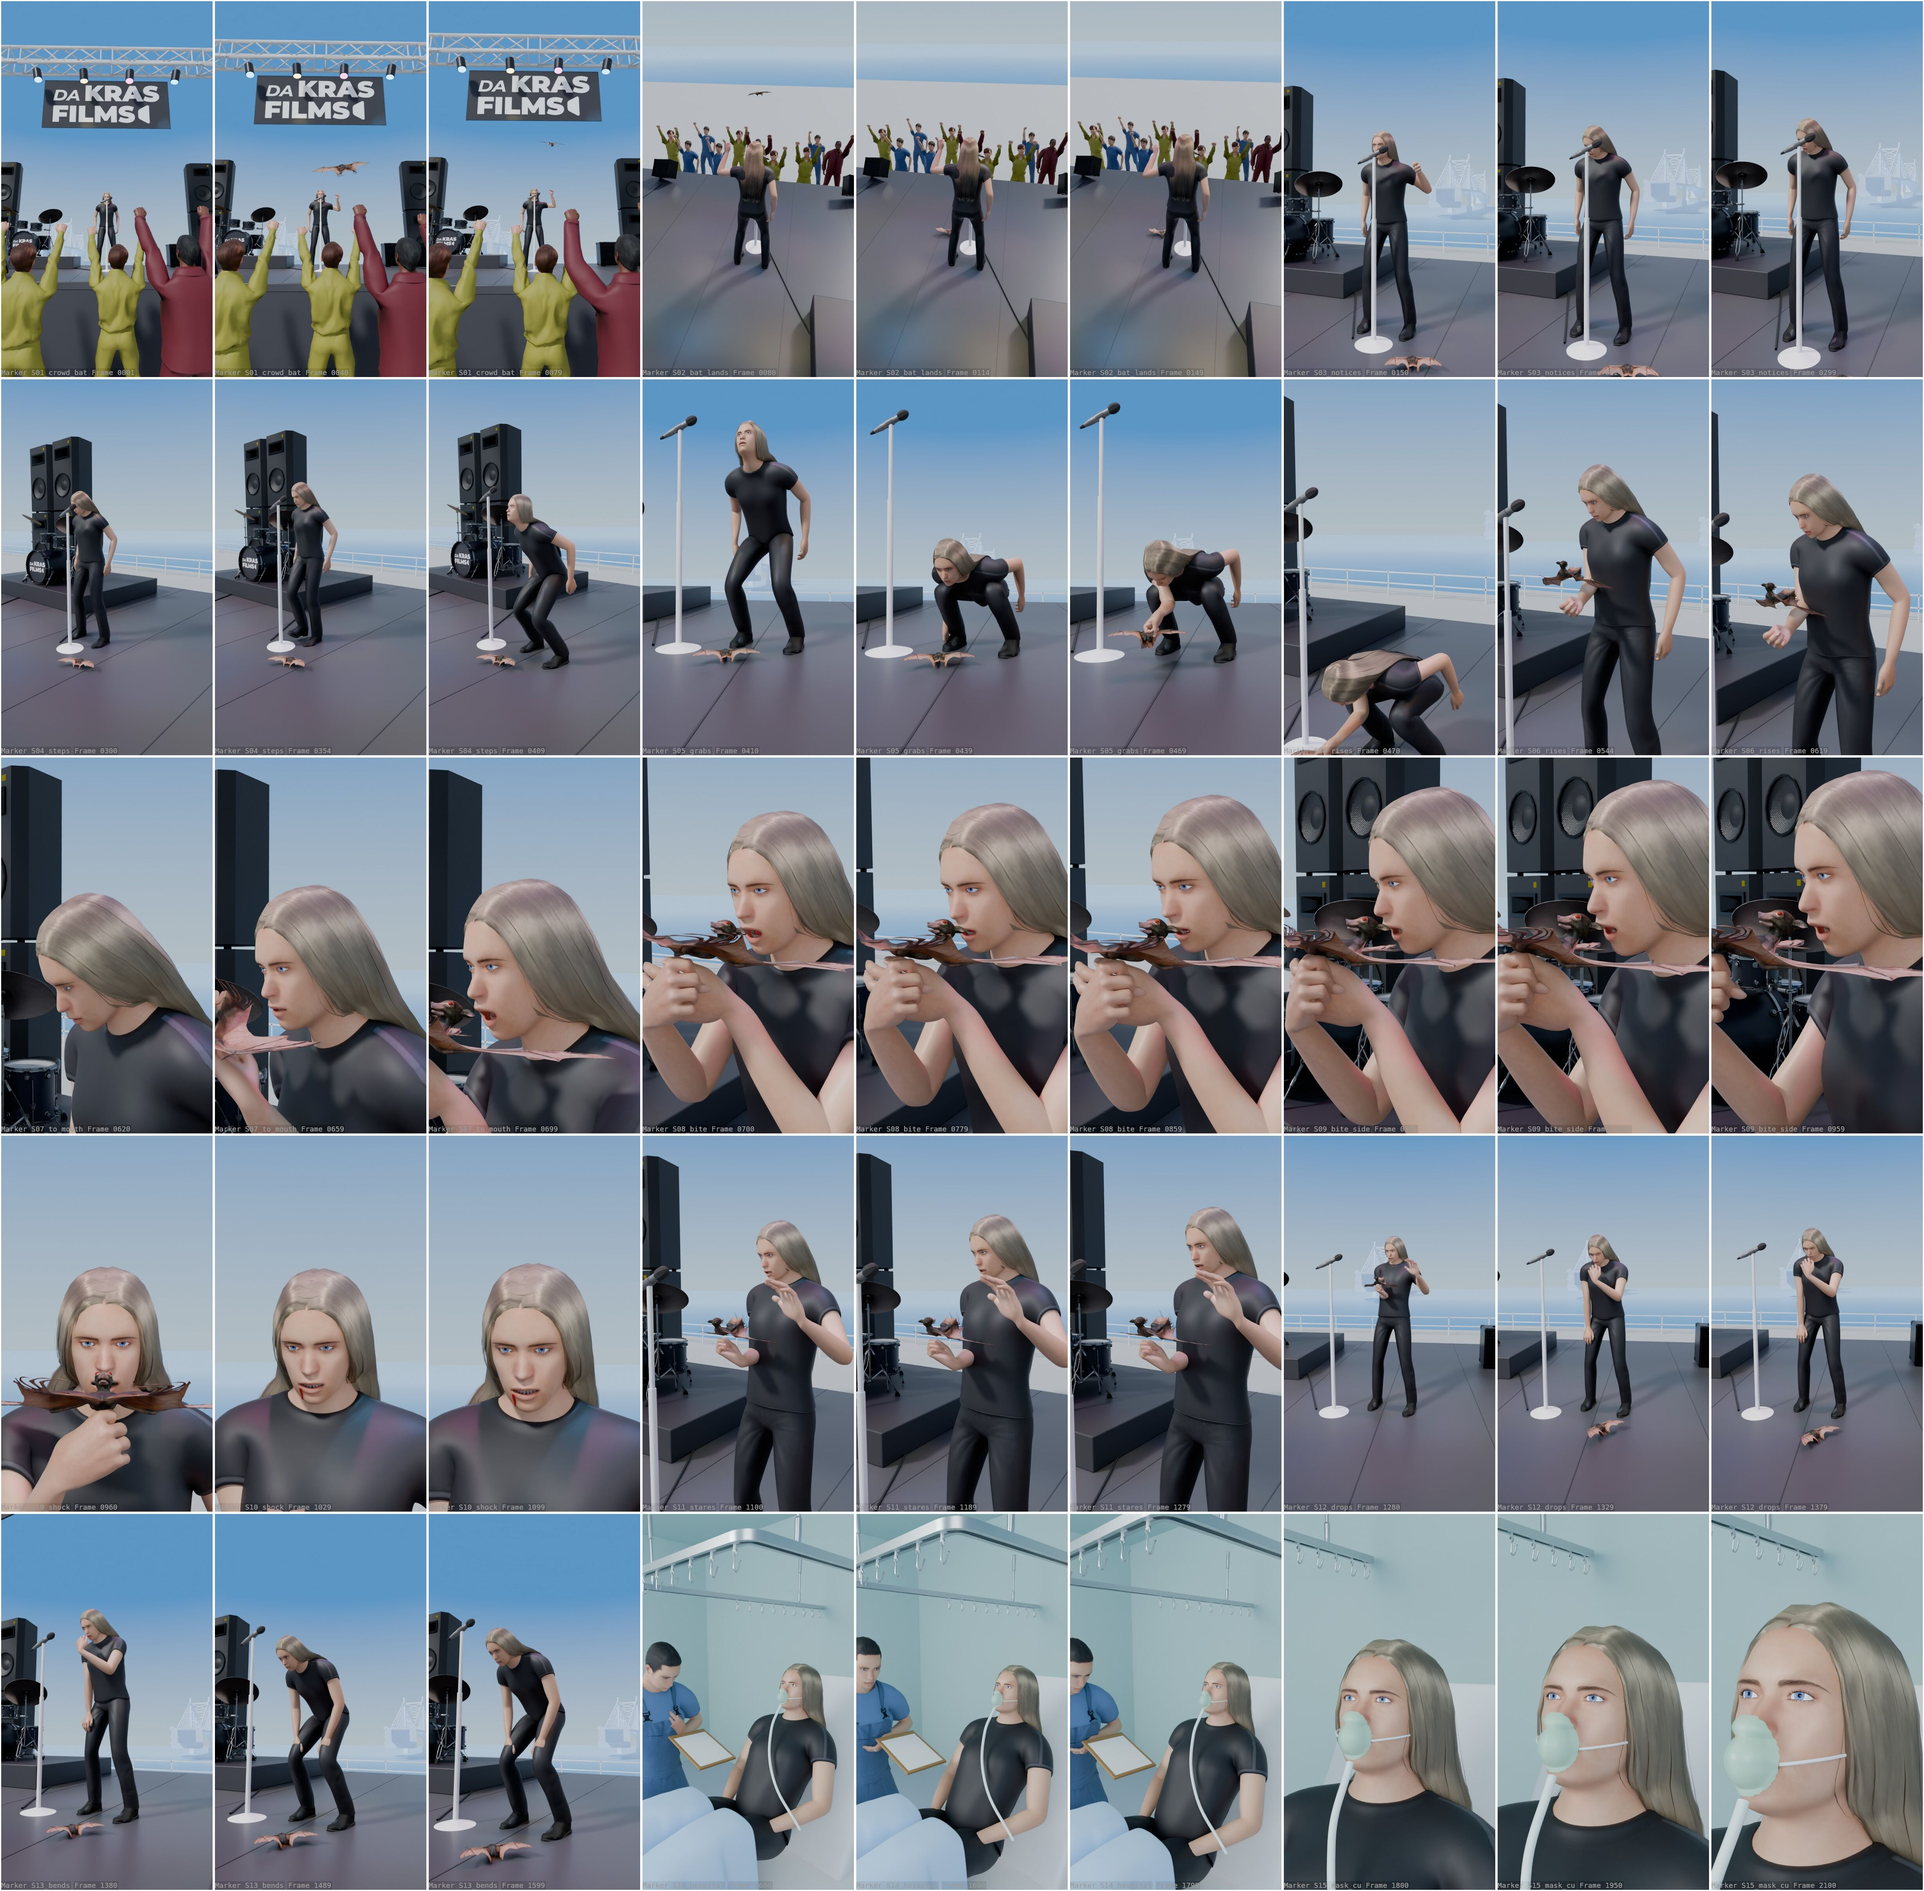
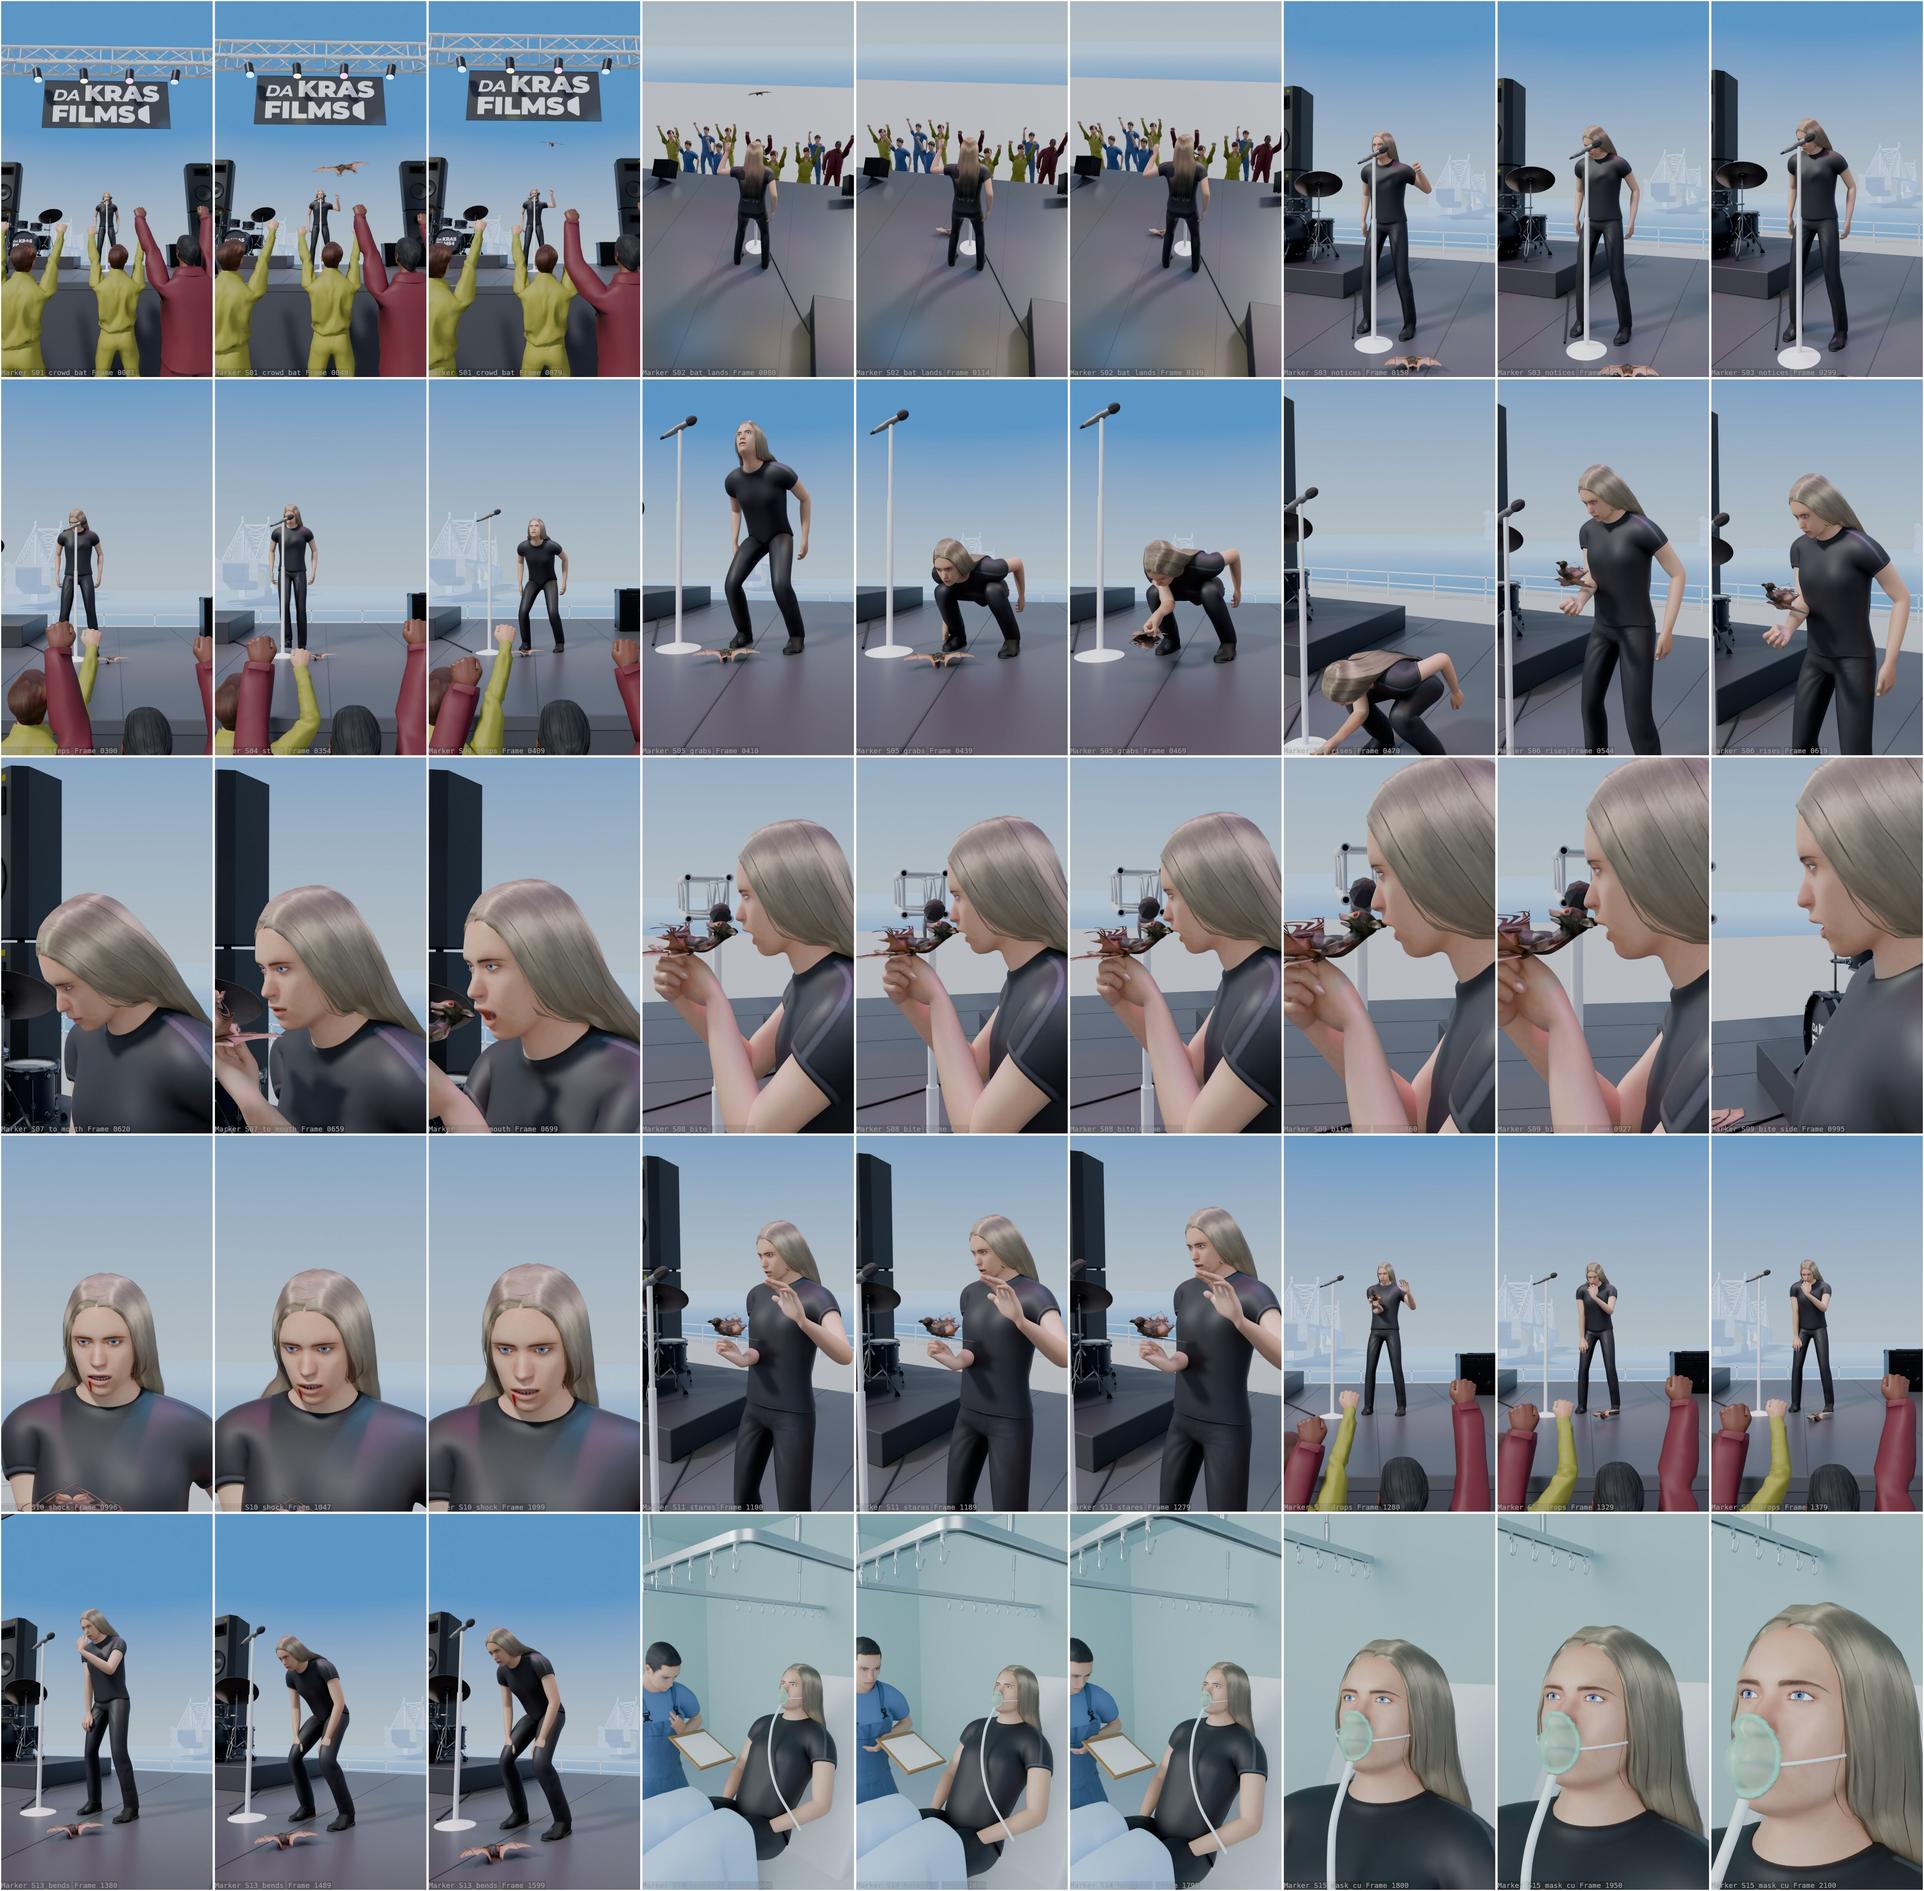
B08 BatBite P1: profile-only bite, folded wings while held, mask rim + clearer plastic, crowd foreground in S04/S12
Claude-Session: https://claude.ai/code/session_01XfwPSmLbHQF2WV66wM8mt5

diff --git a/blender/BatBite_v001/scripts/05_anim.py b/blender/BatBite_v001/scripts/05_anim.py
@@ -187,7 +187,7 @@ def clone(src, name, rgb):
 PAL = [(0.08, 0.12, 0.35), (0.05, 0.45, 0.45), (0.40, 0.12, 0.55), (0.06, 0.06, 0.07), (0.92, 0.92, 0.95), (0.95, 0.45, 0.05),
        (0.35, 0.40, 0.10), (0.55, 0.06, 0.10), (0.15, 0.30, 0.75), (0.85, 0.80, 0.10)]
 CROWD_POS = [(-2.35, -3.55, 6), (-1.55, -4.25, -4), (2.45, -3.70, -8), (3.25, -4.30, 4), (-3.30, -4.05, 10),
-             (-1.05, -4.85, 3), (1.25, -4.75, -3), (-2.70, -4.95, 7), (2.40, -5.05, -6), (0.05, -3.35, 0)]
+             (-1.05, -4.85, 3), (1.65, -4.95, -3), (-2.70, -4.95, 7), (2.40, -5.05, -6), (0.05, -3.35, 0)]
 SRC = ["Fan1", "Fan3", "Fan4"]
 ARMS = {}
 for k, (x, y, yaw) in enumerate(CROWD_POS):
@@ -253,7 +253,8 @@ for f in range(T0, T1 + 1, 4):    # floppy rubber-like flutter in the air
 bat_key(T1 + 4, Mloc(LAND + V((0.0, 0.0, 0.05)), BAT_LIE)); bat_key(T1 + 9, Mloc(LAND + V((0.02, 0.01, 0.026)), BAT_LIE))
 wings(T1 + 4, up=-10); wings(T1 + 9, up=-14); wings(T1 + 14, up=-15)
 HOLD_FOLD = float(os.environ.get("BAT_HOLD_FOLD", "-60")); HOLD_UP = float(os.environ.get("BAT_HOLD_UP", "25"))
-wings(446, up=-15); wings(1296, up=-15)
+HW = float(os.environ.get('HOLD_WING', '-75'))
+wings(446, up=-15); wings(472, up=HW); wings(1296, up=HW)   # wings folded along the body while he holds it (clear of his arms and body)
 BR.key_rot("legs", 446, [("X", 0)]); BR.key_rot("legs", 470, [("X", -55)]); BR.key_rot("legs", 675, [("X", -55)]); BR.key_rot("legs", 695, [("X", 0)]); BR.key_rot("legs", 960, [("X", 0)]); BR.key_rot("legs", 985, [("X", -55)]); BR.key_rot("legs", 1296, [("X", -55)])   # legs hang free at the bite (curled legs read as a blob in the close-ups); BR.key_rot("legs", 1320, [("X", 0)])   # wings stay relaxed/drooping while held (a fold test swung them across his face)
 BAT_REST = Mloc(LAND + V((0.02, 0.01, 0.026)), BAT_LIE)
 bat_key(300, BAT_REST)
@@ -593,12 +594,26 @@ def oxygen_mask():
             if all(k_ in G for k_ in q): bm.faces.new([G[k_] for k_ in q])
     bmesh.ops.recalc_face_normals(bm, faces=bm.faces)
     vmap = G
+    # visible rim: the cup's boundary loop as a soft green rubber bead
+    bnd = [e for e in bm.edges if e.is_boundary]; nxt = {}
+    for e in bnd:
+        a_, b_ = e.verts; nxt.setdefault(a_, []).append(b_); nxt.setdefault(b_, []).append(a_)
+    loop = [bnd[0].verts[0]]; prev = None
+    while True:
+        cands = [v for v in nxt[loop[-1]] if v is not prev]
+        if not cands or cands[0] is loop[0]: break
+        prev = loop[-1]; loop.append(cands[0])
+    rc = bpy.data.curves.new("OxyRim", 'CURVE'); rc.dimensions = '3D'; rc.bevel_depth = 0.0028; rc.bevel_resolution = 2
+    rs = rc.splines.new('POLY'); rs.points.add(len(loop) - 1); rs.use_cyclic_u = True
+    for pt, v in zip(rs.points, loop): pt.co = (v.co.x, v.co.y, v.co.z, 1.0)
+    rim = bpy.data.objects.new("OxyRim", rc); sc.collection.objects.link(rim); rc.materials.append(soft_mat("M_OxyRim", (0.35, 0.75, 0.55), 0.35))
+    print("MASK rim points", len(loop))
     me = bpy.data.meshes.new("OxygenMask"); bm.to_mesh(me)
     o = bpy.data.objects.new("OxygenMask", me); sc.collection.objects.link(o)
     so = o.modifiers.new("Sol", 'SOLIDIFY'); so.thickness = 0.0025; so.offset = 1
     o.modifiers.new("Sub", 'SUBSURF').levels = 1
-    m = soft_mat("M_OxyMask", (0.62, 0.92, 0.74), rough=0.12)
-    Pn = m.node_tree.nodes["Principled BSDF"]; Pn.inputs["Alpha"].default_value = 0.55; Pn.inputs["Coat Weight"].default_value = 0.6   # clear green plastic
+    m = soft_mat("M_OxyMask", (0.55, 0.90, 0.70), rough=0.08)
+    Pn = m.node_tree.nodes["Principled BSDF"]; Pn.inputs["Alpha"].default_value = 0.32; Pn.inputs["Coat Weight"].default_value = 0.8   # clear plastic, light green tint
     me.materials.append(m)
     for p in me.polygons: p.use_smooth = True
     # tube from the bottom of the cup down over the chest to the bed side, and a thin elastic strap toward the ears
@@ -618,7 +633,7 @@ def oxygen_mask():
         s2 = cs.splines.new("POLY"); s2.points.add(len(q) - 1)      # straight segments: no handle overshoot into the cheek
         for pt, p in zip(s2.points, q): pt.co = (p.x, p.y, p.z, 1.0)
     st = bpy.data.objects.new("OxyStrap", cs); sc.collection.objects.link(st); cs.materials.append(soft_mat("M_Strap", (0.9, 0.95, 0.95), 0.5))
-    for ob in (o, t, st):     # Child Of the head bone (a prop, not a rig child), identity at rest
+    for ob in (o, t, st, rim):     # Child Of the head bone (a prop, not a rig child), identity at rest
         c = ob.constraints.new('CHILD_OF'); c.target = D[S]; c.subtarget = "head"
         c.inverse_matrix = (D[S].matrix_world @ RIG[S].rest("head")).inverted()
         for f, hid in ((1, True), (CUT, False)):
@@ -714,7 +729,7 @@ bat_key(CUT - 1, Mloc(DROP, Rz(230) @ Rx(90)))
 # ---- second hand at the bite (director: both hands hold the bat at chin height): left hand grips the bat's left flank at 712,
 # then rides with the bat every frame 690-975 (target clamped to reach); before/after it is the normal relaxed/shock keys
 BW = float(os.environ.get("BITE_WING", "40"))
-wings(676, up=-15); wings(696, up=BW); wings(964, up=BW); wings(984, up=-15)
+
 sc.frame_set(712); bpy.context.view_layer.update()
 Mb712 = BAT.matrix_world.copy(); left_w = Rz(YAW) @ V((1, 0, 0))
 xw = (Mb712.to_3x3() @ V((1, 0, 0))).normalized(); sgn = 1 if xw.dot(left_w) > 0 else -1

diff --git a/blender/BatBite_v001/scripts/06_cams.py b/blender/BatBite_v001/scripts/06_cams.py
@@ -19,15 +19,15 @@ SH = [
  ("S01_crowd_bat",    1,   80, (-0.10, -5.9, 0.30), (-0.08, -5.6, 0.35), (0.0, -0.5, 1.75), (0.0, -0.5, 1.65), 24, False),
  ("S02_bat_lands",   80,  150, (-0.45, 2.4, 2.7), (-0.35, 2.2, 2.6), (0.35, -1.6, 0.3), (0.35, -1.6, 0.25), 24, False),
  ("S03_notices",    150,  300, (1.05, -2.75, 1.15), (0.95, -2.45, 1.20), (0.05, -0.2, 1.25), (0.05, -0.2, 1.20), 30, False),
- ("S04_steps",      300,  410, (2.4, -2.5, 1.35), (2.3, -2.25, 1.25), (0.45, -0.3, 0.95), (0.5, -0.3, 0.85), 28, False),
+ ("S04_steps",      300,  410, (0.45, -5.40, 0.85), (0.45, -5.30, 0.85), (0.35, -0.25, 1.05), (0.50, -0.25, 0.95), 42, False),
  ("S05_grabs",      410,  470, (0.85, -2.30, 0.50), (0.80, -2.15, 0.50), (0.48, -0.40, 0.55), (0.48, -0.40, 0.55), 28, False),
  ("S06_rises",      470,  620, (1.55, -2.25, 1.35), (1.35, -1.85, 1.45), (0.55, -0.35, 1.15), (0.55, -0.35, 1.35), 38, False),
  ("S07_to_mouth",   620,  700, (1.30, -1.20, 1.62), (1.18, -1.05, 1.62), "HEAD", "HEAD", 55, True),
- ("S08_bite",       700,  860, (0.98, -1.12, 1.62), (0.94, -1.06, 1.62), "BITE", "BITE", 45, True),
- ("S09_bite_side",  860,  960, (1.22, -0.98, 1.60), (1.16, -0.92, 1.60), "BITE", "BITE", 55, True),
- ("S10_shock",      960, 1100, (0.32, -1.50, 1.62), (0.36, -1.30, 1.62), "HEAD", "HEAD", 60, True),
+ ("S08_bite",       700,  860, (1.44, -0.60, 1.63), (1.40, -0.58, 1.63), "BITE", "BITE", 45, True),
+ ("S09_bite_side",  860,  996, (1.28, -0.52, 1.62), (1.24, -0.50, 1.62), "BITE", "BITE", 55, True),
+ ("S10_shock",      996, 1100, (0.32, -1.50, 1.62), (0.36, -1.30, 1.62), "HEAD", "HEAD", 60, True),
  ("S11_stares",    1100, 1280, (1.35, -1.65, 1.50), (1.25, -1.50, 1.48), (0.55, -0.40, 1.35), (0.55, -0.40, 1.35), 35, False),
- ("S12_drops",     1280, 1380, (0.95, -3.2, 1.30), (0.90, -3.0, 1.25), (0.55, -0.2, 0.90), (0.55, -0.2, 0.85), 28, False),
+ ("S12_drops",     1280, 1380, (0.45, -5.40, 0.85), (0.45, -5.30, 0.85), (0.65, -0.25, 1.05), (0.65, -0.25, 1.00), 42, False),
  ("S13_bends",     1380, 1600, (1.7, -2.5, 0.60), (1.55, -2.2, 0.62), (0.55, -0.2, 0.95), (0.55, -0.2, 0.92), 28, False),
  ("S14_hospital",  1600, 1800, (HX + 0.95, -0.15, 1.72), (HX + 0.86, -0.02, 1.70), (HX - 0.32, 1.02, 1.38), (HX - 0.30, 1.04, 1.40), 30, False),
  ("S15_mask_cu",   1800, 2100, (HX + 0.42, 0.25, 1.60), (HX + 0.30, 0.55, 1.55), "HEAD", "HEAD", 50, True),

diff --git a/blender/BatBite_v001/PLAN.md b/blender/BatBite_v001/PLAN.md
@@ -17,8 +17,8 @@ VO beat, so Phase 2 can shift and trim blocks to the VO frames without stretchin
 | | | **S05** 410–470 grabs | deep crouch, right hand reaches the bat's lower body and closes (`grip_object` + wrap_grip; the bat is baked to the IK hand every frame from here on). **Edit plan:** use 410–444 (the reach) and cut to S06 at 506, so the finger-contact frames 445–505 are not shown. | low front-right, face visible |
 | | | **S06** 470–620 (used from 506) rises | stands up holding it at chest height, looks down at it, turns it | medium front-right, push-in |
 | | 620–960 | **S07** 620–700 to the mouth | lifts it to his face, jaw opens | close-up 3/4 left |
-| | | **S08** 700–860 bite | **both hands** hold the bat under its body at chin height (fists, fingers wrapped); only the bat's head touches his lips (1 mm), jaw closes a little, small playful head shakes; wings swept forward, away from his face | close-up 3/4 profile from his left, framed on mouth + bat + both hands |
-| | | **S09** 860–960 bite side | same bite, tighter 3/4 profile | close-up 3/4 profile, left |
+| | | **S08** 700–860 bite | **both hands** hold the bat under its body at chin height (fists, fingers wrapped); only the bat's head touches his lips (1 mm), jaw closes a little, small playful head shakes; wings swept forward, away from his face | side profile from his left (~80°), framed on mouth + bat + both hands |
+| | | **S09** 860–996 bite side | same bite, tighter profile, ends as he pulls it away (no front-on bite shot) | close-up side profile, left |
 | 3. It was real: blood in his mouth | 960–1280 | **S10** 960–1100 shock | left hand lets go at 950; pulls it away fast with the right; mouth slightly open; a thin light red trace appears at the right lip corner (keyed visible from 984); stares at the bat | close-up front, slow push |
 | | | **S11** 1100–1280 stares | holds it out at chest height, left hand open in shock (not touching the face) | medium front-right |
 | | 1280–1600 | **S12** 1280–1380 drops it | fingers open, the bat falls; he staggers: left hand up toward his mouth (~6 cm clear), right hand on his right knee, small sway | wide front |
@@ -32,7 +32,7 @@ hung from the top truss (≥15% of frame width in S01, flat to camera, f-stop ir
 ## Risky shots and the simplest safe staging used
 - **Generic singer, no likeness:** MPFB generic male, long dark-blond hair, black tee + black jeans + black shoes. No tattoos, no costume details of the real person.
 - **Bat in the fingers:** right hand wraps the bat's lower body from the grab to the drop (`grip_object`); at the bite the left hand joins under the bat (690–950) and rides with it every frame; every hand target is clamped to the arm's reach and IK error is 0 mm on every held frame; the bat is baked to the IK hand every frame while held, so it can't float. The landing spot is computed from the crouch pose so the hand really reaches it.
-- **Bite at the mouth, not into the face:** only the bat's head touches the lips (1 mm), along the face direction; both hands hold it from below (~10 cm under the mouth); the wings are swept forward away from the face; seen in 3/4 profile so nothing reads as entering the face.
+- **Bite at the mouth, not into the face:** only the bat's head touches the lips (1 mm), along the face direction; both hands hold it from below (~10 cm under the mouth); the wings are swept forward away from the face; seen only in side profile (no front-on bite shot) so nothing reads as entering the face; wings folded along the bat's body while held (clear of his arms and torso).
 - **Blood light:** one thin red streak from the right lip corner (3 mm wide, 3 cm long), carried by the jaw, shrink-wrapped to the skin. No drips, no spray, no puddle (the reference's floor blood is dropped).
 - **Oxygen-mask fit:** a small clear-green medical cup over nose and mouth, computed from the singer's posed face by ray casts (4 mm off the skin at the rim, 12 mm at the centre), Child Of the head bone; an elastic strap laid on the cheeks (ray-projected, 3 mm off the skin) to under the hair at the ears; tube from the bottom of the cup. Head and jaw held still in the hospital (breathing in the spine only).
 - **Hospital hands:** syringe and vial on a tray cart (no hand contact); the doctor's clipboard rests flat on his palm (`hold_flat_object`, baked to the hand every frame); the patient's hands rest on his belly above the blanket.
